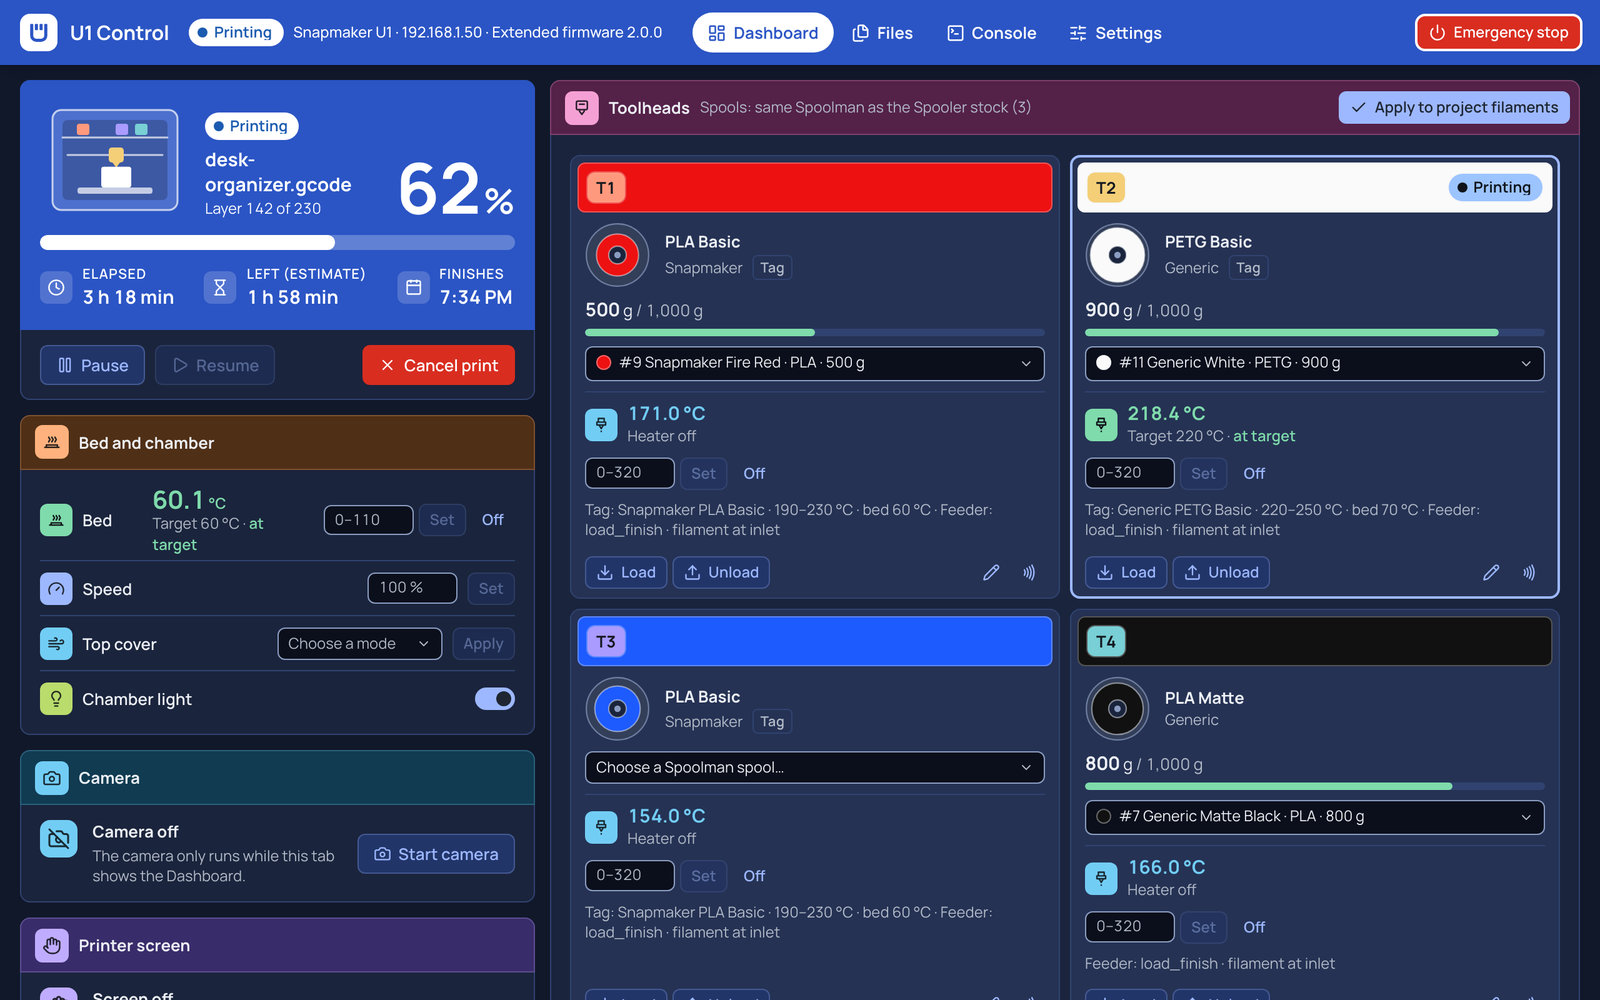
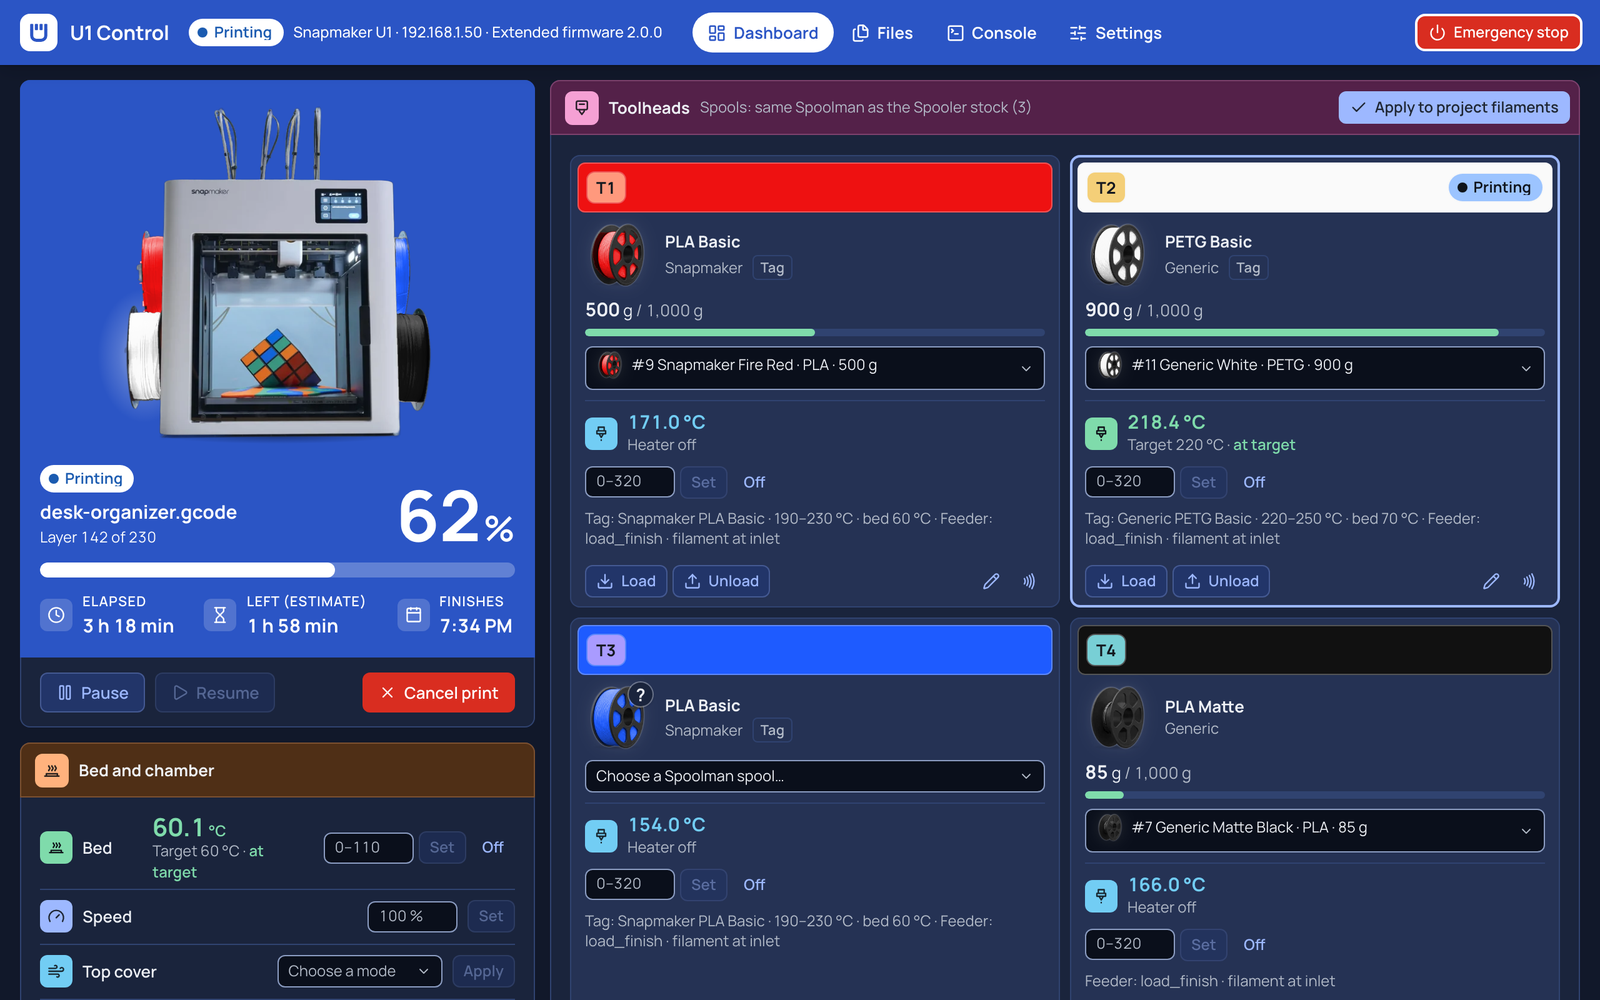
docs: re-render listing and README images with the spool reels
Demo spools: T1 half, T2 nearly full, T4 low, T3 loaded with no spool
linked (the ? badge). Main, hero, square and social show the print card
without the printer photo or buttons and the four toolheads with their
reels right under it; the filament image fits all four toolheads.

diff --git a/scripts/render_images.py b/scripts/render_images.py
@@ -66,10 +66,17 @@ SCROLL_TO = ('document.querySelector("main").style.paddingBottom="600px";'   # t
              'scrollTo(0,Math.round(scrollY));')
 CAMERA_ON = ('document.querySelector(\'[data-test="camera"]\').click();'      # start the camera, answer with the mock picture
              'setTimeout(()=>emit({type:"frame",image:DATA.frame}),50);setTimeout(()=>{%s},300);')
+# The toolhead cards without their heater row, feeder line and buttons: the spools are what they show here.
+COMPACT_HEADS = 'document.querySelectorAll(".hc .oui-slot-extra>[data-heater-row],.hc .oui-slot-extra>p.oui-meta,.hc .oui-slot-actions").forEach(e=>e.remove());'
+# The main and hero images: the print card without the printer photo or its buttons, the four toolheads and their spools right under it
+# (without their spool pickers too, so both rows fit).
+REELS_UNDER_JOB = ('const job=document.querySelector(\'[data-test="job-card"]\');job.querySelectorAll(".u1-figure,.u1-job-actions").forEach(e=>e.remove());'
+                   'job.after(document.querySelector("#heads-h").closest(".oui-panel"));' + COMPACT_HEADS
+                   + 'document.querySelectorAll(".hc .hc-pick").forEach(e=>e.remove());')
 SCREENS = {
-    "dash": dict(page="app", section="dash", width=640),
+    "dash": dict(page="app", section="dash", width=640, spools=True, js=REELS_UNDER_JOB),
     "camera": dict(page="app", section="dash", width=640, js=CAMERA_ON % (SCROLL_TO % "#bed-h")),
-    "heads": dict(page="app", section="dash", width=640, spools=True, js=SCROLL_TO % "#heads-h"),
+    "heads": dict(page="app", section="dash", width=640, spools=True, js=SCROLL_TO % "#heads-h" + COMPACT_HEADS),   # all four fit the square
     "files": dict(page="app", section="files", width=880),
     "setup": dict(page="setup", width=680),
     "wide": dict(page="app", section="dash", spools=True),
@@ -165,6 +172,9 @@ def printer_status(fakes, u1, tags=False):
         fp.close()
 
 
+DEMO_LEFT = {7: {"remaining_weight": 85}}   # grams left on a demo spool, where the fake printer's own amount is not the picture wanted
+
+
 def app_data(fakes, mods, scenario):
     u1, sm, st = mods["u1"], mods["spoolman"], mods["settings"]
     status = printer_status(fakes, u1, tags=True)
@@ -172,7 +182,8 @@ def app_data(fakes, mods, scenario):
     fp = fakes.FakePrinter()
     try:
         # demo spools are 1 kg spools, so the images show each reel's fill and level bar
-        spools = [sm.spool_view({"initial_weight": 1000, **s}) for s in fp.spools]
+        # and a believable mix: T1 half, T2 nearly full, T4 low; T3 has no spool linked, so its amount is unknown
+        spools = [sm.spool_view({"initial_weight": 1000, **s, **DEMO_LEFT.get(s["id"], {})}) for s in fp.spools]
     finally:
         fp.close()
     view["bindings"] = {"0": 9, "1": 11, "3": 7} if scenario.get("spools") else {}
